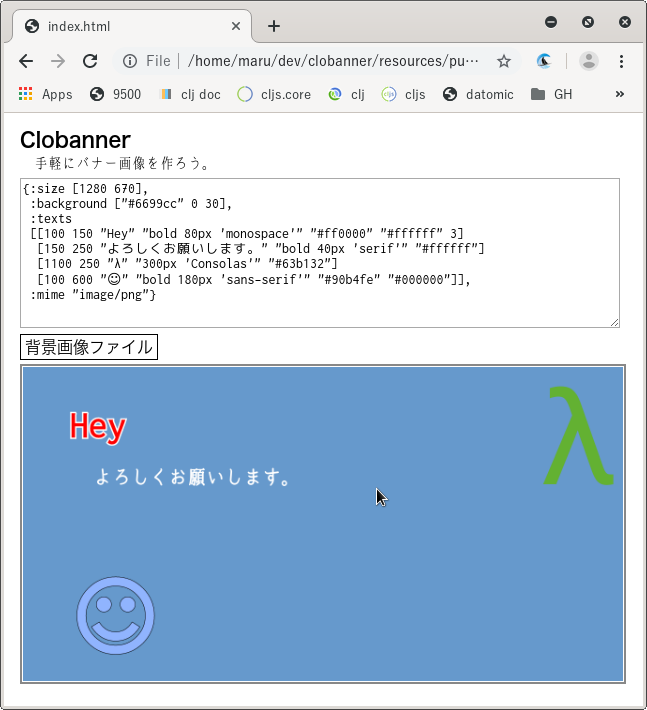
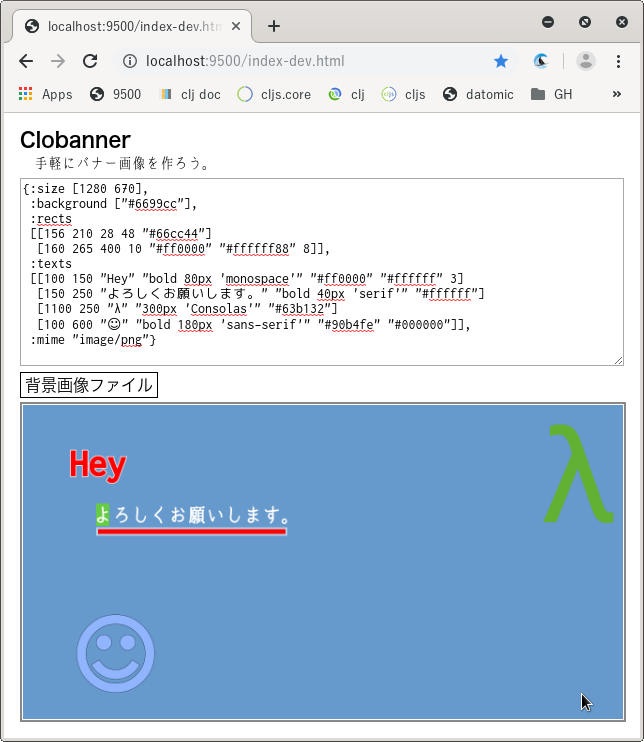
Can draw rects

diff --git a/README.md b/README.md
@@ -20,7 +20,9 @@
 
 `color`は背景色、`s*`は背景画像ファイルのどこを切り取るか、`d*`はキャンバスのどこに貼るかを指定。`sh`は指定不可。
 
-`texts`の中の各テキストには、X座標、Y座標、出力文字列、フォント情報(cssのfont相当)、文字色、文字の縁の色、文字の縁の太さを指定。文字の縁に関する情報は省略可能。
+`:texts`の中の各テキストには、X座標、Y座標、出力文字列、フォント情報(cssのfont相当)、文字色、文字の縁の色、文字の縁の太さを指定。文字の縁に関する情報は省略可能。
+
+`:rects`も`:texts`と似たような感じ。
 
 `:mime`は、出力する画像のMIMEタイプ。
 
